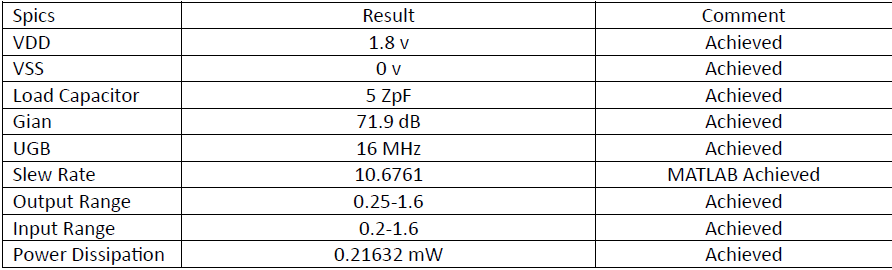
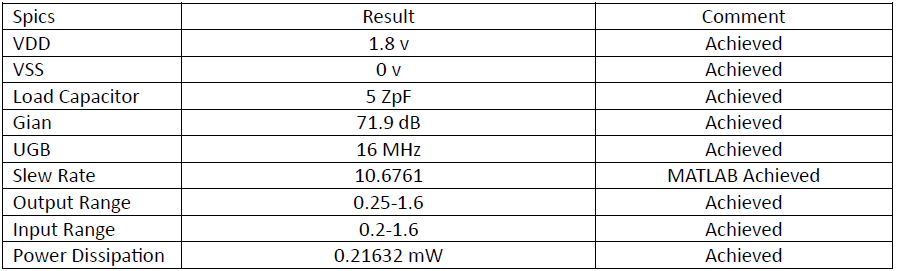
docs(tt_um_ssp_opamp): fix image sizes #281

Changed region(s): [[0.0, 0.0, 1.0, 0.9778], [0.9989, 0.9778, 1.0, 1.0]]

diff --git a/projects/tt_um_ssp_opamp/docs/info.md b/projects/tt_um_ssp_opamp/docs/info.md
@@ -8,11 +8,9 @@ You can also include images in this folder and reference them in the markdown. E
 -->
 
 ## How it works
-
 This project contains in total 3 circuits: 2 nos. of 2-stage opamp and 1 POR (Power on reset) circuit. These circuits are  designed by participants of analog IC design training conducted by SSP (Saudi Semiconductor Program). 
 
 ### 2-stage Opamp
-
 A 2-stage Miller operational amplifier (op-amp) circuit comprises two amplification stages, with a Miller capacitor connected between the output of the first stage and the input of the second stage. This arrangement improves stability and bandwidth, making it ideal for high-gain, high-frequency applications. The 2-stage Miller op-amp is frequently utilized in precision analog signal processing, active filters, and high-impedance buffer circuits.
 
 **First Stage:** An NMOS differential input pair, selected for its high transconductance and speed, amplifies the difference between the input signals.
@@ -25,34 +23,36 @@ In the op-amp design submissions, **Amr Abdelrahman** and **Majid Sami** each pr
 
 #### (1) Design by Amr Abdelrahman
 
-![Opamp Schematic](pic_opamp_sch.png)
-![Opamp Testbench](pic_opamp_testbench.png)
-![Opamp Layout](pic_opamp_layout.png)
-![Opamp Simulation Specifications](pic_opamp_Specs.png)
+<img src="pic_opamp_sch.png" alt="Opamp Schematic" width="600" height="400">
+
+<img src="pic_opamp_testbench.png" alt="Opamp Testbench" width="600" height="400">
+
+<img src="pic_opamp_layout.png" alt="Opamp Layout" width="600" height="400">
+
+<img src="pic_opamp_Specs.png" alt="Opamp Simulation Specifications" width="400" height="200">
 
 #### (2) Design by Majid Sami
 
-![Opamp Schematic](pic1_opamp_sch.png)
-![Opamp Testbench](pic1_opamp_testbench.png)
-![Opamp Layout](pic1_opamp_layout.png)
-![Opamp Simulation Specifications](pic1_opamp_specs.png)
+<img src="pic1_opamp_sch.png" alt="Opamp Schematic" width="600" height="400">
+
+<img src="pic1_opamp_testbench.png" alt="Opamp Testbench" width="600" height="500">
+
+<img src="pic1_opamp_layout.png" alt="Opamp Layout" width="600" height="400">
+
+<img src="pic1_opamp_specs.png" alt="Opamp Simulation Specifications" width="400" height="200">
+
 
 ### POR (Power On Reset) Circuit
 Power-on reset (POR) circuit ensures that electronic systems start up in a known, stable state by generating a reset signal when power is initially applied. This circuit detects when the power supply reaches a sufficient voltage level and holds the reset line active until the voltage stabilizes, preventing erratic behavior and data corruption. POR circuits are crucial in microcontrollers, consumer electronics, and industrial systems, as they guarantee reliable initialization and consistent performance, thereby enhancing system stability and functionality during power-up.The circuit designed without capacitor which yields 30% reduction of chip’s area compared to the conventional designs
 
 #### (1) Design by Khalid Alorayir
-![POR Schematic](pic_por_sch.png)
-![POR Testbench](pic_por_testbench.png)
-![POR Layout](pic_por_lay.png)
-
-
+<img src="pic_por_sch.png" alt="POR Schematic" width="600" height="400">
+<img src="pic_por_testbench.png" alt="POR Testbench" width="600" height="400">
+<img src="pic_por_lay.png" alt="POR Layout" width="600" height="400">
 
 ## How to test
-
 ### (1) Testing Opamp Circuit
-
 #### Non-Inverting Configuration
-
 1. **Set Up the Circuit:** Connect the op-amp with the input signal to the non-inverting input (+) and a feedback resistor network to the inverting input (−).
 2. **Power the Op-Amp:** Apply the required positive and negative supply voltages.
 3. **Apply Input Signal:** Feed a known input signal to the non-inverting input.
@@ -61,7 +61,6 @@ Power-on reset (POR) circuit ensures that electronic systems start up in a known
 6. **Evaluate Stability and Linearity:** Look for any oscillations or instability and confirm the output accurately represents the input signal.
 
 #### Buffer (Voltage Follower) Configuration
-
 1. **Set Up the Circuit:** Connect the op-amp with output to the inverting input (−) and the input signal to the non-inverting input (+).
 2. **Power the Op-Amp:** Apply the necessary supply voltages.
 3. **Apply Input Signal:** Feed a known input signal to the non-inverting input.
@@ -69,31 +68,20 @@ Power-on reset (POR) circuit ensures that electronic systems start up in a known
 5. **Check Frequency Response and Stability:** Confirm fidelity of output across different frequencies and ensure stable output without oscillations.
 6. **Assess Load Driving Capability:** Test with various loads to verify effective driving.
 
-
 ### (2) Testing POR Circuit
-
 1. Power up the circuit such that VDD voltage reaches final 1.8V value from 0V in 1us to 10us seep time.
-
 2. Check the reset signal with an oscilloscope to confirm proper activation and deactivation.
-
 3. Verify that the voltage reaches the threshold and that the reset signal duration is sufficient, especially for rise times of 1µs to 10µs.
-
 4. Test the POR circuit under varying power conditions and ensure correct system initialization post-reset.
-
 5. Power down and repeat the test to ensure consistent performance.
 
 ## External hardware
-
 Digilent Analog Discovery can be used for various measurements of opamp circuits. 
 
 1. **Signal Generation**: Use the Analog Discovery's waveform generator to create test signals for the op-amp and power-on-reset circuits.
-
 2. **Measurement**: Connect the oscilloscope probes to monitor the input and output signals of the op-amp and observe the behavior of the power-on-reset circuit.
-
 3. **Frequency Response**: Analyze the frequency response of the op-amp by sweeping through various frequencies and recording the output using the Analog Discovery's built-in tools.
-
 4. **Transient Analysis**: Measure how the op-amp and power-on-reset circuits respond to transient signals or sudden changes, such as power-up events.
-
 5. **Voltage Levels**: Check the stability and correct operation of the power-on-reset circuit by measuring the voltage levels and timing of the reset pulse.
 
-![Sample Measurement Setup using Analog Discovery 3](pic_analog_discovery.jpeg)
+<img src="pic_analog_discovery.jpeg" alt="Sample Measurement Setup using Analog Discovery 3" width="600" height="400">
